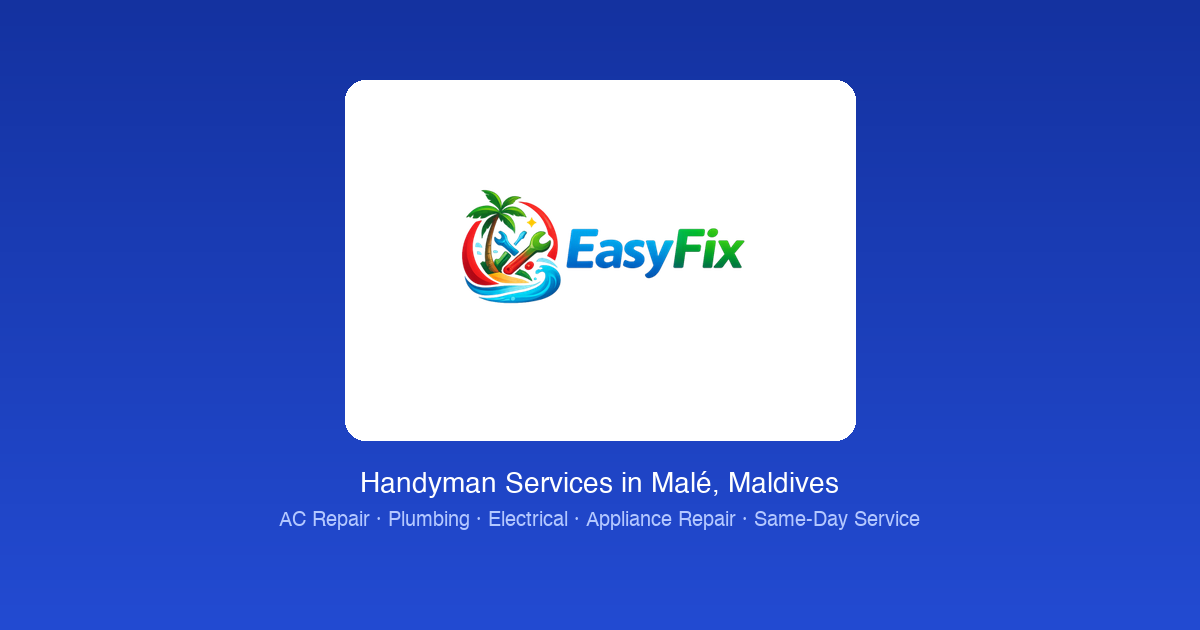
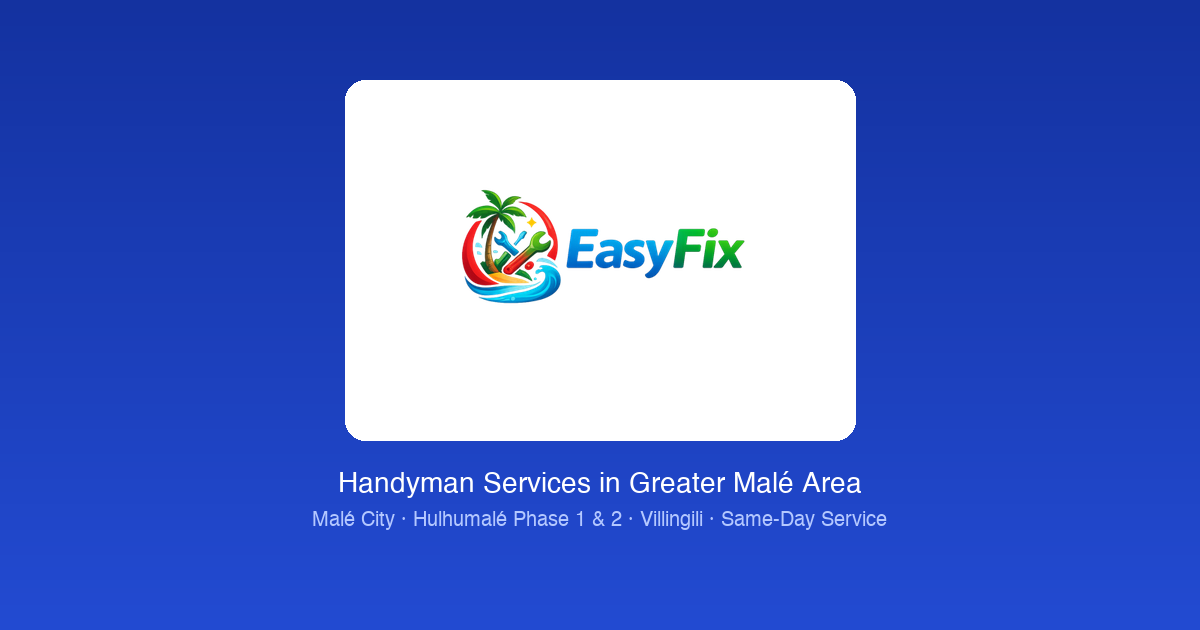
Update branding to Greater Malé Area, add smooth scroll and hero glow
- Replace Malé-only references with Greater Malé Area across
  homepage and about page (titles, meta, OG tags, headings)
- Regenerate OG image with updated text
- Add smooth scrolling for anchor links
- Add interactive blue glow blob that follows mouse in hero section

Changed region(s): [[0.2158, 0.8143, 0.7708, 0.8444], [0.2775, 0.754, 0.74, 0.7841]]

diff --git a/easyfix/resources/views/welcome.blade.php b/easyfix/resources/views/welcome.blade.php
@@ -1,14 +1,14 @@
 <!DOCTYPE html>
-<html lang="en-MV">
+<html lang="en-MV" class="scroll-smooth">
 <head>
     <meta charset="utf-8">
     <meta name="viewport" content="width=device-width, initial-scale=1">
 
     {{-- SEO Optimized Title --}}
-    <title>Easy Fix | Plumber, Electrician & Handyman Services in Malé, Maldives</title>
+    <title>Easy Fix | Plumber, Electrician & Handyman Services in Greater Malé Area, Maldives</title>
 
     {{-- SEO Meta Description --}}
-    <meta name="description" content="Need a plumber, electrician or handyman in Malé? Easy Fix provides same-day AC repair, fridge repair, washing machine repair, plumbing, electrical & cleaning services in Malé City, Hulhumalé & Villingili. Call +960 999 6210.">
+    <meta name="description" content="Need a plumber, electrician or handyman in Greater Malé Area? Easy Fix provides same-day AC repair, fridge repair, washing machine repair, plumbing, electrical & cleaning services across Malé City, Hulhumalé & Villingili. Call +960 999 6210.">
 
     {{-- SEO Keywords --}}
     <meta name="keywords" content="plumber Malé, electrician Malé, handyman Maldives, AC repair Malé, fridge repair Malé, washing machine repair Maldives, refrigerator repair Hulhumalé, appliance repair Malé, plumbing Hulhumalé, home repair Maldives">
@@ -22,8 +22,8 @@
     {{-- Open Graph / Facebook --}}
     <meta property="og:type" content="website">
     <meta property="og:url" content="https://easyfix.mv/">
-    <meta property="og:title" content="Easy Fix | Plumber, Electrician & Handyman in Malé">
-    <meta property="og:description" content="Same-day home repairs in Malé City. AC repair, plumbing, electrical, door locks & more. Trusted team. Call +960 999 6210.">
+    <meta property="og:title" content="Easy Fix | Handyman Services in Greater Malé Area">
+    <meta property="og:description" content="Same-day home repairs across Malé City, Hulhumalé & Villingili. AC repair, plumbing, electrical, appliance repair & more. Call +960 999 6210.">
     <meta property="og:image" content="https://easyfix.mv/images/easyfix-og.png">
     <meta property="og:image:width" content="1200">
     <meta property="og:image:height" content="630">
@@ -31,8 +31,8 @@
 
     {{-- Twitter Card --}}
     <meta name="twitter:card" content="summary_large_image">
-    <meta name="twitter:title" content="Easy Fix | Handyman Services in Malé, Maldives">
-    <meta name="twitter:description" content="Same-day plumbing, electrical & AC repair in Malé. Call +960 999 6210.">
+    <meta name="twitter:title" content="Easy Fix | Handyman Services in Greater Malé Area">
+    <meta name="twitter:description" content="Same-day plumbing, electrical & AC repair across Malé City, Hulhumalé & Villingili. Call +960 999 6210.">
 
     {{-- Canonical URL --}}
     <link rel="canonical" href="https://easyfix.mv/">
@@ -202,8 +202,10 @@
 
     <main>
         {{-- HERO SECTION --}}
-        <section class="relative bg-gradient-to-b from-blue-50 to-white dark:from-slate-900 dark:to-slate-950" aria-labelledby="hero-heading">
-            <div class="max-w-6xl mx-auto px-4 sm:px-6 lg:px-8 py-16 sm:py-24">
+        <section id="hero" class="relative overflow-hidden bg-gradient-to-b from-blue-50 to-white dark:from-slate-900 dark:to-slate-950" aria-labelledby="hero-heading">
+            {{-- Interactive glow blob --}}
+            <div id="hero-glow" class="pointer-events-none absolute -translate-x-1/2 -translate-y-1/2 w-[600px] h-[600px] rounded-full opacity-0 transition-opacity duration-500 bg-[radial-gradient(circle,rgba(59,130,246,0.15)_0%,transparent_70%)] dark:bg-[radial-gradient(circle,rgba(59,130,246,0.1)_0%,transparent_70%)]" style="left:-100px;top:-100px"></div>
+            <div class="relative max-w-6xl mx-auto px-4 sm:px-6 lg:px-8 py-16 sm:py-24">
                 @auth
                 {{-- Personalized Hero for Logged-in Users --}}
                 <div class="max-w-3xl">
@@ -248,7 +250,7 @@
                     </div>
 
                     <h1 id="hero-heading" class="text-4xl sm:text-5xl lg:text-6xl font-bold text-gray-900 dark:text-white leading-tight">
-                        Handyman Services in Malé, Maldives
+                        Handyman Services in Greater Malé Area
                     </h1>
 
                     <p class="mt-6 text-lg sm:text-xl text-gray-600 dark:text-slate-300 max-w-xl">
@@ -284,7 +286,7 @@
                 {{-- Section Header --}}
                 <div class="text-center mb-12">
                     <h2 id="services-heading" class="text-3xl sm:text-4xl font-bold text-gray-900 dark:text-white">
-                        Home Repair Services in Malé
+                        Home Repair Services in Greater Malé Area
                     </h2>
                     <p class="mt-3 text-gray-600 dark:text-slate-400 max-w-xl mx-auto">
                         Quick fixes for everyday problems. We serve Malé City, Hulhumalé Phase 1 & 2, and Villingili.
@@ -340,7 +342,7 @@
             <div class="max-w-6xl mx-auto px-4 sm:px-6 lg:px-8">
                 <div class="text-center mb-12">
                     <h2 id="how-heading" class="text-3xl sm:text-4xl font-bold text-gray-900 dark:text-white">
-                        How to Book a Handyman in Malé
+                        How to Book a Handyman
                     </h2>
                     <p class="mt-3 text-gray-600 dark:text-slate-400">
                         Multiple ways to book. Choose what works for you.
@@ -428,10 +430,10 @@
             <div class="max-w-6xl mx-auto px-4 sm:px-6 lg:px-8">
                 <div class="text-center mb-12">
                     <h2 id="why-heading" class="text-3xl sm:text-4xl font-bold text-gray-900 dark:text-white">
-                        Why Malé Residents Choose Easy Fix
+                        Why Residents Choose Easy Fix
                     </h2>
                     <p class="mt-3 text-gray-600 dark:text-slate-400">
-                        Trusted by homes and offices across Greater Malé Area.
+                        Trusted by homes and offices across Malé City, Hulhumalé & Villingili.
                     </p>
                 </div>
 
@@ -542,7 +544,7 @@
                         Frequently Asked Questions
                     </h2>
                     <p class="mt-3 text-gray-600 dark:text-slate-400">
-                        Common questions about our services in Malé.
+                        Common questions about our services.
                     </p>
                 </div>
 
@@ -599,10 +601,10 @@
         <section class="py-16 sm:py-20 bg-blue-600 dark:bg-blue-700" aria-labelledby="cta-heading">
             <div class="max-w-4xl mx-auto px-4 sm:px-6 lg:px-8 text-center">
                 <h2 id="cta-heading" class="text-3xl sm:text-4xl font-bold text-white mb-4">
-                    Need a Plumber or Electrician in Malé?
+                    Need a Plumber or Electrician?
                 </h2>
                 <p class="text-blue-100 text-lg mb-8 max-w-xl mx-auto">
-                    Don't let small problems become big headaches. Call Easy Fix for same-day repairs in Malé City, Hulhumalé and Villingili.
+                    Don't let small problems become big headaches. Call Easy Fix for same-day repairs across Greater Malé Area.
                 </p>
 
                 <div class="flex flex-col sm:flex-row gap-4 justify-center">
@@ -703,10 +705,43 @@
             {{-- Bottom bar --}}
             <div class="pt-8 mt-8 border-t border-gray-800 dark:border-slate-700 flex flex-col sm:flex-row justify-between items-center gap-4 text-sm text-gray-500 dark:text-slate-400">
                 <p>&copy; {{ date('Y') }} Easy Fix by Micronet. All rights reserved.</p>
-                <p>Handyman Services in Malé, Maldives</p>
+                <p>Handyman Services in Greater Malé Area, Maldives</p>
             </div>
         </div>
     </footer>
 
+    <script>
+    (function() {
+        const hero = document.getElementById('hero');
+        const glow = document.getElementById('hero-glow');
+        if (!hero || !glow) return;
+
+        let targetX = 0, targetY = 0, currentX = 0, currentY = 0, raf;
+
+        function animate() {
+            currentX += (targetX - currentX) * 0.08;
+            currentY += (targetY - currentY) * 0.08;
+            glow.style.left = currentX + 'px';
+            glow.style.top = currentY + 'px';
+            raf = requestAnimationFrame(animate);
+        }
+
+        hero.addEventListener('mouseenter', function() {
+            glow.style.opacity = '1';
+            raf = requestAnimationFrame(animate);
+        });
+
+        hero.addEventListener('mousemove', function(e) {
+            const rect = hero.getBoundingClientRect();
+            targetX = e.clientX - rect.left;
+            targetY = e.clientY - rect.top;
+        });
+
+        hero.addEventListener('mouseleave', function() {
+            glow.style.opacity = '0';
+            cancelAnimationFrame(raf);
+        });
+    })();
+    </script>
 </body>
 </html>

diff --git a/easyfix/resources/views/about.blade.php b/easyfix/resources/views/about.blade.php
@@ -1,20 +1,21 @@
 <!DOCTYPE html>
-<html lang="en-MV">
+<html lang="en-MV" class="scroll-smooth">
 <head>
     <meta charset="utf-8">
     <meta name="viewport" content="width=device-width, initial-scale=1">
 
-    <title>About Us | Easy Fix - Trusted Handyman Services in Malé, Maldives</title>
+    <title>About Us | Easy Fix - Trusted Handyman Services in Greater Malé Area</title>
 
-    <meta name="description" content="Learn about Easy Fix - Malé's trusted handyman service. Fast response, transparent pricing, and a vetted team for plumbing, electrical, AC repair, and more in Malé City and Hulhumalé.">
+    <meta name="description" content="Learn about Easy Fix - Greater Malé Area's trusted handyman service. Fast response, transparent pricing, and a vetted team for plumbing, electrical, AC repair, and more across Malé City, Hulhumalé & Villingili.">
 
-    <meta name="keywords" content="about Easy Fix, handyman Malé, home repair Maldives, Micro Cool AC, Micronet services">
+    <meta name="keywords" content="about Easy Fix, handyman Malé, home repair Maldives, handyman Hulhumalé, Micro Cool AC, Micronet services">
 
     {{-- Open Graph --}}
     <meta property="og:type" content="website">
     <meta property="og:url" content="https://easyfix.mv/about">
-    <meta property="og:title" content="About Easy Fix | Handyman Services in Malé">
-    <meta property="og:description" content="Malé's trusted handyman service. Fast response, transparent pricing, vetted team.">
+    <meta property="og:title" content="About Easy Fix | Handyman Services in Greater Malé Area">
+    <meta property="og:description" content="Greater Malé Area's trusted handyman service. Malé City, Hulhumalé & Villingili. Fast response, transparent pricing, vetted team.">
+    <meta property="og:image" content="https://easyfix.mv/images/easyfix-og.png">
 
     <link rel="canonical" href="https://easyfix.mv/about">
     <link rel="icon" type="image/png" href="/favicon.ico">
@@ -55,7 +56,7 @@
                     </div>
 
                     <h1 class="text-4xl sm:text-5xl font-bold text-gray-900 dark:text-white leading-tight">
-                        Malé's Trusted Handyman Service
+                        Greater Malé Area's Trusted Handyman Service
                     </h1>
 
                     <p class="mt-6 text-lg sm:text-xl text-gray-600 dark:text-slate-300 max-w-xl">
@@ -91,7 +92,7 @@
                         Why People Trust Us
                     </h2>
                     <p class="mt-3 text-gray-600 dark:text-slate-400 max-w-xl mx-auto">
-                        We built Easy Fix on simple principles that matter to every homeowner in Malé.
+                        We built Easy Fix on simple principles that matter to every homeowner in Greater Malé Area.
                     </p>
                 </div>
 
@@ -134,9 +135,9 @@
                         <div class="w-12 h-12 bg-amber-100 dark:bg-amber-900/30 rounded-xl flex items-center justify-center mb-4">
                             <x-heroicon-o-map-pin class="w-6 h-6 text-amber-600 dark:text-amber-400" />
                         </div>
-                        <h3 class="font-semibold text-gray-900 dark:text-white mb-2">Malé Expertise</h3>
+                        <h3 class="font-semibold text-gray-900 dark:text-white mb-2">Local Expertise</h3>
                         <p class="text-sm text-gray-600 dark:text-slate-400">
-                            We know Malé's buildings, common issues, and can navigate the city quickly to reach you.
+                            We know the buildings and common issues across Malé City, Hulhumalé and Villingili.
                         </p>
                     </div>
                 </div>
@@ -190,7 +191,7 @@
                         </h2>
                         <div class="space-y-4 text-gray-600 dark:text-slate-300">
                             <p>
-                                Living in Malé, we've all been there. The kitchen tap starts dripping at 9 PM. The door handle breaks when you have guests coming. The AC stops cooling in the middle of a hot afternoon.
+                                Living in the Greater Malé Area, we've all been there. The kitchen tap starts dripping at 9 PM. The door handle breaks when you have guests coming. The AC stops cooling in the middle of a hot afternoon.
                             </p>
                             <p>
                                 Finding someone reliable to fix these small problems used to mean calling five different people, negotiating prices, and hoping they actually show up. We wanted to change that.
@@ -307,7 +308,7 @@
                             For quick AC troubleshooting, Easy Fix has you covered. But for full installations, major repairs, or maintenance contracts, our sister brand <strong>Micro Cool</strong> specializes in exactly that.
                         </p>
                         <p class="text-gray-600 dark:text-slate-300">
-                            Micro Cool handles everything from installing new split ACs in apartments to servicing commercial cassette units in offices across Malé. Same trusted service, specialized for air conditioning.
+                            Micro Cool handles everything from installing new split ACs in apartments to servicing commercial cassette units in offices across the Greater Malé Area. Same trusted service, specialized for air conditioning.
                         </p>
                     </div>
                 </div>
@@ -324,7 +325,7 @@
                         </div>
                         <div>
                             <p class="text-sm font-medium text-gray-900 dark:text-white">Part of the Micronet Family</p>
-                            <p class="text-xs text-gray-500 dark:text-slate-400">IT & Services company based in Malé</p>
+                            <p class="text-xs text-gray-500 dark:text-slate-400">IT & Services company based in Greater Malé Area</p>
                         </div>
                     </div>
                     <div class="flex items-center gap-6 text-sm text-gray-500 dark:text-slate-400">
